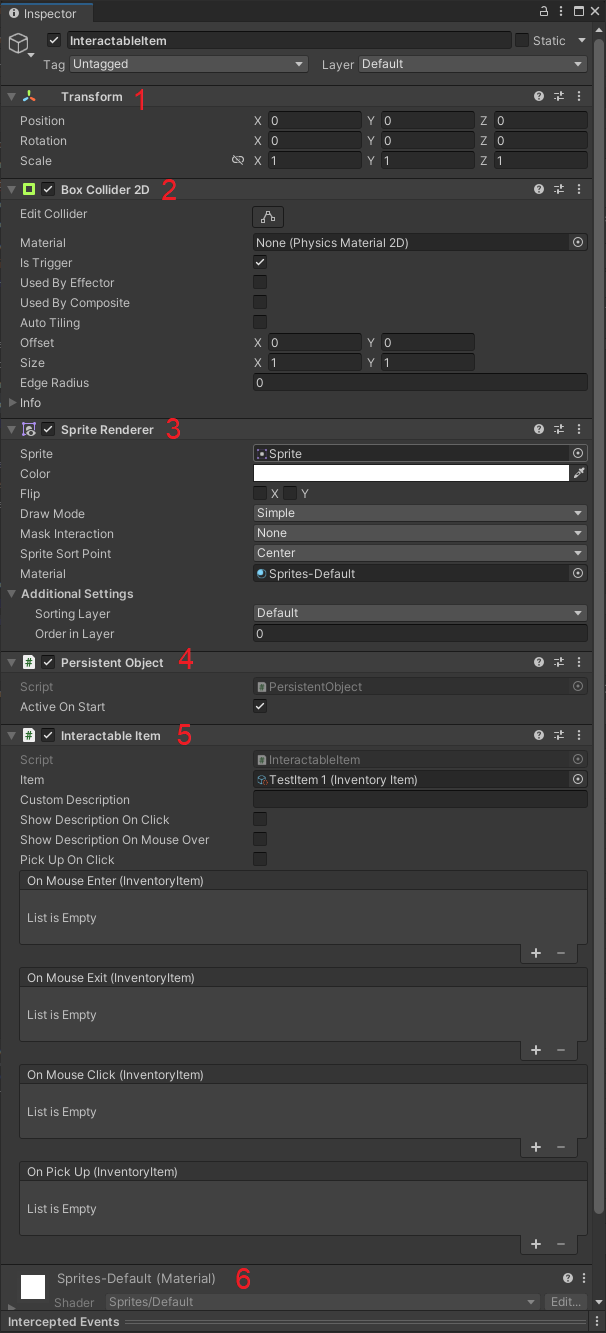
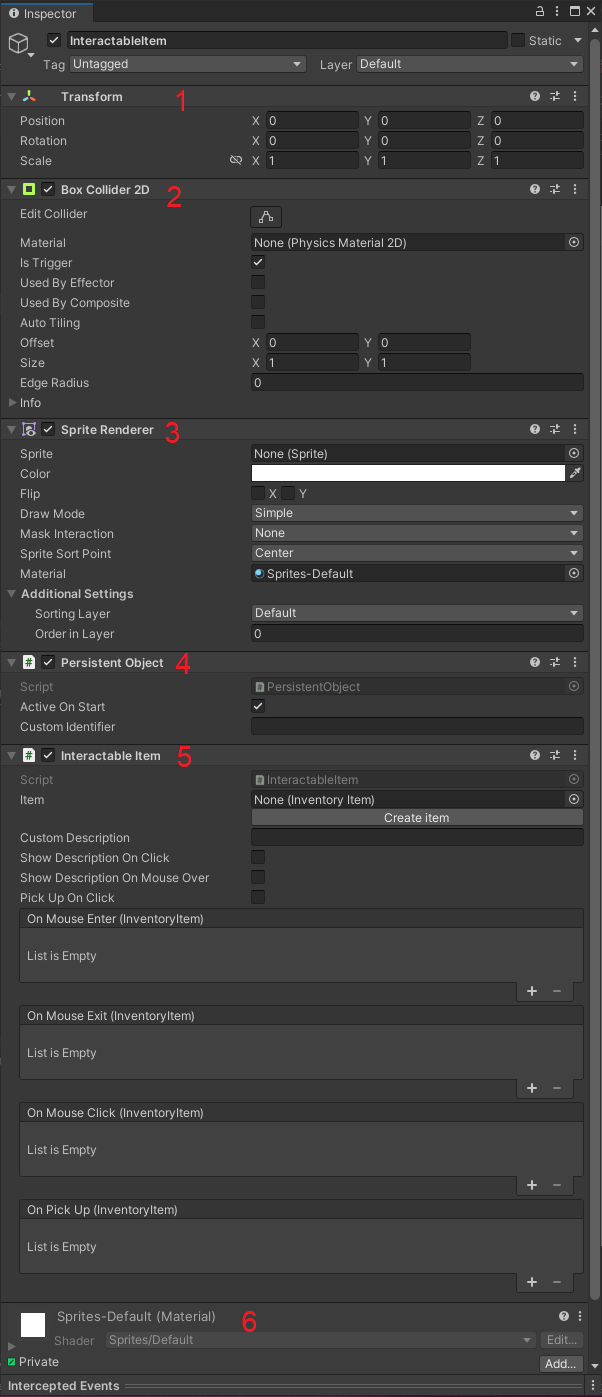
Updated manual

diff --git a/Documentation~/manual/CreateInteractableItem.md b/Documentation~/manual/CreateInteractableItem.md
@@ -1,0 +1,33 @@
+---
+uid: create_interactable_item
+title: Create a Interactable Item
+---
+# Create a interactable item
+
+The easiest way to create a interactable item is to right click in the hierarchy window and in the menu select:
+
+`MoxieJam->StoryFramework->Create Interactable Item`
+
+![Right click in hierarchy and select MoxieJam/StoryFramework/Create Interactable Item](../resources/images/CreateInteractableItem.png)
+
+A new window will now open with settings for the interactable item:
+
+1. Name of the game object
+2. What image to use
+3. Weather it's possible to pick up the item or not.
+4. A `Inventory Item` to associate with this object. This is the actual item that will be picked up in to the inventory. If you have not created the `Inventory Item` before hand, you can press `Create Item` to create one now.
+
+Once you are satisfied with your settings you click `Create` and it will be available in the scene. If you have changed your mind about creating the object just click cancel.
+
+![Configure item in window](../resources/images/CreateInteractableItem2.png)
+
+You have now created a interactable item, congratulations! Select the newly created object in the hierarchy window and take a look in the inspector window. This is all the components of the intractable item you just created:
+
+1. `Transform` decided where to place the object in the scene. You can also use it to rotate or change the size of the object.
+2. `Box Collider 2D` is used to decide the clickable/mouser-over area of the object.
+3. `Sprite Renderer` like the name implies is used to render (draw) the sprite. You can assign a `Sprite` (image) here and do things such as flip it, and change what layer and order it's being drawn.
+4. See <xref:component_persistent_object>.
+5. See <xref:component_interactable_item>
+6. The last component is the material used by the `Sprite Renderer` to draw the image.
+
+![A Interactable Item](../resources/images/InteractableItem.png)

diff --git a/Documentation~/manual/InteractableItem.md b/Documentation~/manual/InteractableItem.md
@@ -1,28 +1,14 @@
 ---
-uid: interactable_item
+uid: component_interactable_item
 title: Interactable Item
 ---
-# Create a interactable item
+# Persistent Object
 
-The easiest way to create a interactable item is to right click in the hierarchy window and in the menu select:
+![Persistent Object component](../resources/images/components/InteractableItem.png)
 
-`MoxieJam->StoryFramework->Create Interactable Item`
+The interactable item is a composite component gathering often-used functionality relating to items:
 
-![Right click in hierarchy and select MoxieJam/StoryFramework/Create Interactable Item](../resources/images/CreateInteractableItem.png)
+* It allow you to pick up an item
 
-A new window will now open with settings for the interactable item:
+## Settings
 
-1. Name of the game object
-2. What image to use
-3. Weather it's possible to pick up the item or not.
-4. A `Inventory Item` to associate with this object. This is the actual item that will be picked up in to the inventory. If you have not created the `Inventory Item` before hand, you can press `Create Item` to create one now.
-
-Once you are satisfied with your settings you click `Create` and it will be available in the scene. If you have changed your mind about creating the object just click cancel.
-
-![Configure item in window](../resources/images/CreateInteractableItem2.png)
-
-You have now created a interactable item, congratulations! Select the newly created object in the hierarchy window and take a look in the inspector window. This is all the components of the intractable item you just created:
-
-1. `Transform` decided where to place the object in the scene. You can also use it to rotate or change the size of the object.
-
-![Configure item in window](../resources/images/InteractableItem.png)

diff --git a/Documentation~/manual/PersistentObject.md b/Documentation~/manual/PersistentObject.md
@@ -1,0 +1,24 @@
+---
+uid: component_persistent_object
+title: Persistent Object
+---
+# Persistent Object
+
+![Persistent Object component](../resources/images/components/PersistentObject.png)
+
+The persistent object component is used for two things:
+
+* It allow for a game object to have a unique identifier that is used to remember the state of a object when entering and exiting scenes.
+* It remembers if a game object was active (enabled) or not when entering and exiting a scene.
+
+## Settings
+
+### Active On Start
+
+If this is enabled (default) the game object will be enabled (active) when entering the scene first time, otherwise it is hidden.
+
+### Custom identifier
+
+A persistent object have a internal generated identifer private to it. If you rather want to specify your own, this can be done in this field.
+
+A custom identifier is useful if you want to  be able to refrence this game objects state from antoher scene (e.g. activate/deactivate a game object from another scene).

diff --git a/Documentation~/manual/CreateDropItemTarget.md b/Documentation~/manual/CreateDropItemTarget.md
@@ -1,9 +1,11 @@
 ---
-uid: interactable_item
-title: Drop Item Target
+uid: create_drop_item_target
+title: Createa a Drop Item Target
 ---
 # Create a drop item target
 
 ## Create a target to drop an item on
 
 ![Right click in hierarchy and select MoxieJam/StoryFramework/Create Drop Item target](../resources/images/CreateDropItemTarget.png)
+
+![Configure item in window](../resources/images/DropItemTarget.png)
